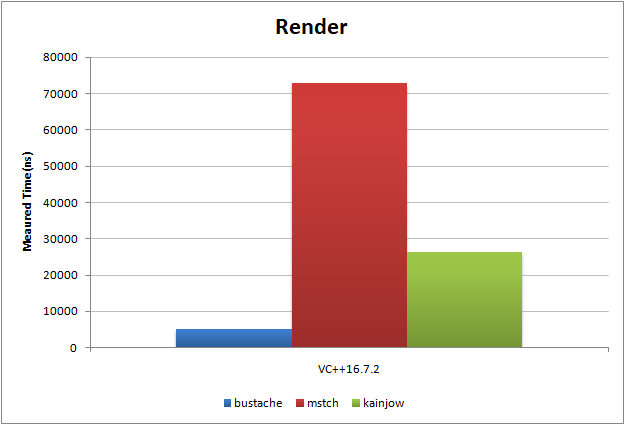
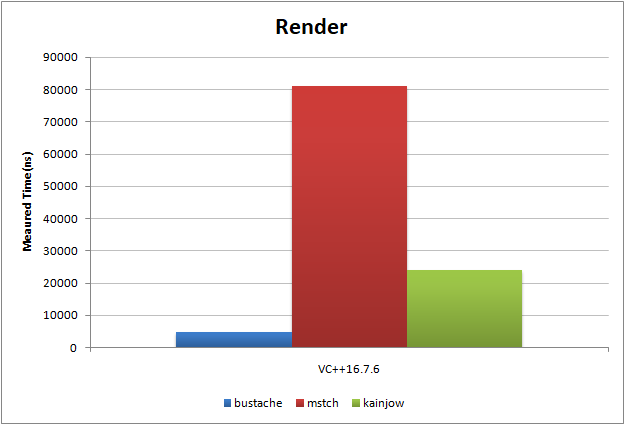
Update README.

diff --git a/README.md b/README.md
@@ -24,6 +24,9 @@ C++20 implementation of [{{ mustache }}](http://mustache.github.io/), compliant 
 ## Other Features
 * Customizable behavior on unresolved variable
 * Trait-based user-defined model
+* Variable [format string](https://fmt.dev/latest/syntax.html), e.g. `{{var:*^10}}`.
+* List expansion section, e.g. `{{*map}}({{key}} -> {{value}}){{/map}}`.
+* Filter section, e.g. `{{?filter}}...{{/filter}}`.
 
 ## Basics
 {{ mustache }} is a template language for text-replacing.
@@ -268,22 +271,22 @@ You can also use `what()` for a descriptive text.
 Compare with 2 other libs - [mstch](https://github.com/no1msd/mstch/tree/0fde1cf94c26ede7fa267f4b64c0efe5da81a77a) and [Kainjow.Mustache](https://github.com/kainjow/Mustache/tree/a7eebc9bec92676c1931eddfff7637d7e819f2d2).
 See [benchmark.cpp](test/benchmark.cpp). 
 
-Sample run (VS2019 16.7.2, boost 1.73.0, 64-bit release build):
+Sample run (VS2019 16.7.6, boost 1.73.0, 64-bit release build):
 ```
-08/27/20 15:41:51
-Running F:\code\Notation\x64\Release\Notation.exe
+2020-10-27T16:10:49+08:00
+Running F:\code\bus\x64\Release\bus.exe
 Run on (8 X 3600 MHz CPU s)
 CPU Caches:
-  L1 Data 32K (x8)
-  L1 Instruction 32K (x8)
-  L2 Unified 262K (x8)
-  L3 Unified 12582K (x1)
+  L1 Data 32 KiB (x8)
+  L1 Instruction 32 KiB (x8)
+  L2 Unified 256 KiB (x8)
+  L3 Unified 12288 KiB (x1)
 ---------------------------------------------------------
 Benchmark               Time             CPU   Iterations
 ---------------------------------------------------------
-bustache_usage       5193 ns         5313 ns       100000
-mstch_usage         72931 ns        73242 ns         8960
-kainjow_usage       26192 ns        26088 ns        26353
+bustache_usage       4675 ns         4708 ns       149333
+mstch_usage         80919 ns        81961 ns         8960
+kainjow_usage       23993 ns        24065 ns        29867
 ```
 Lower is better.
 
